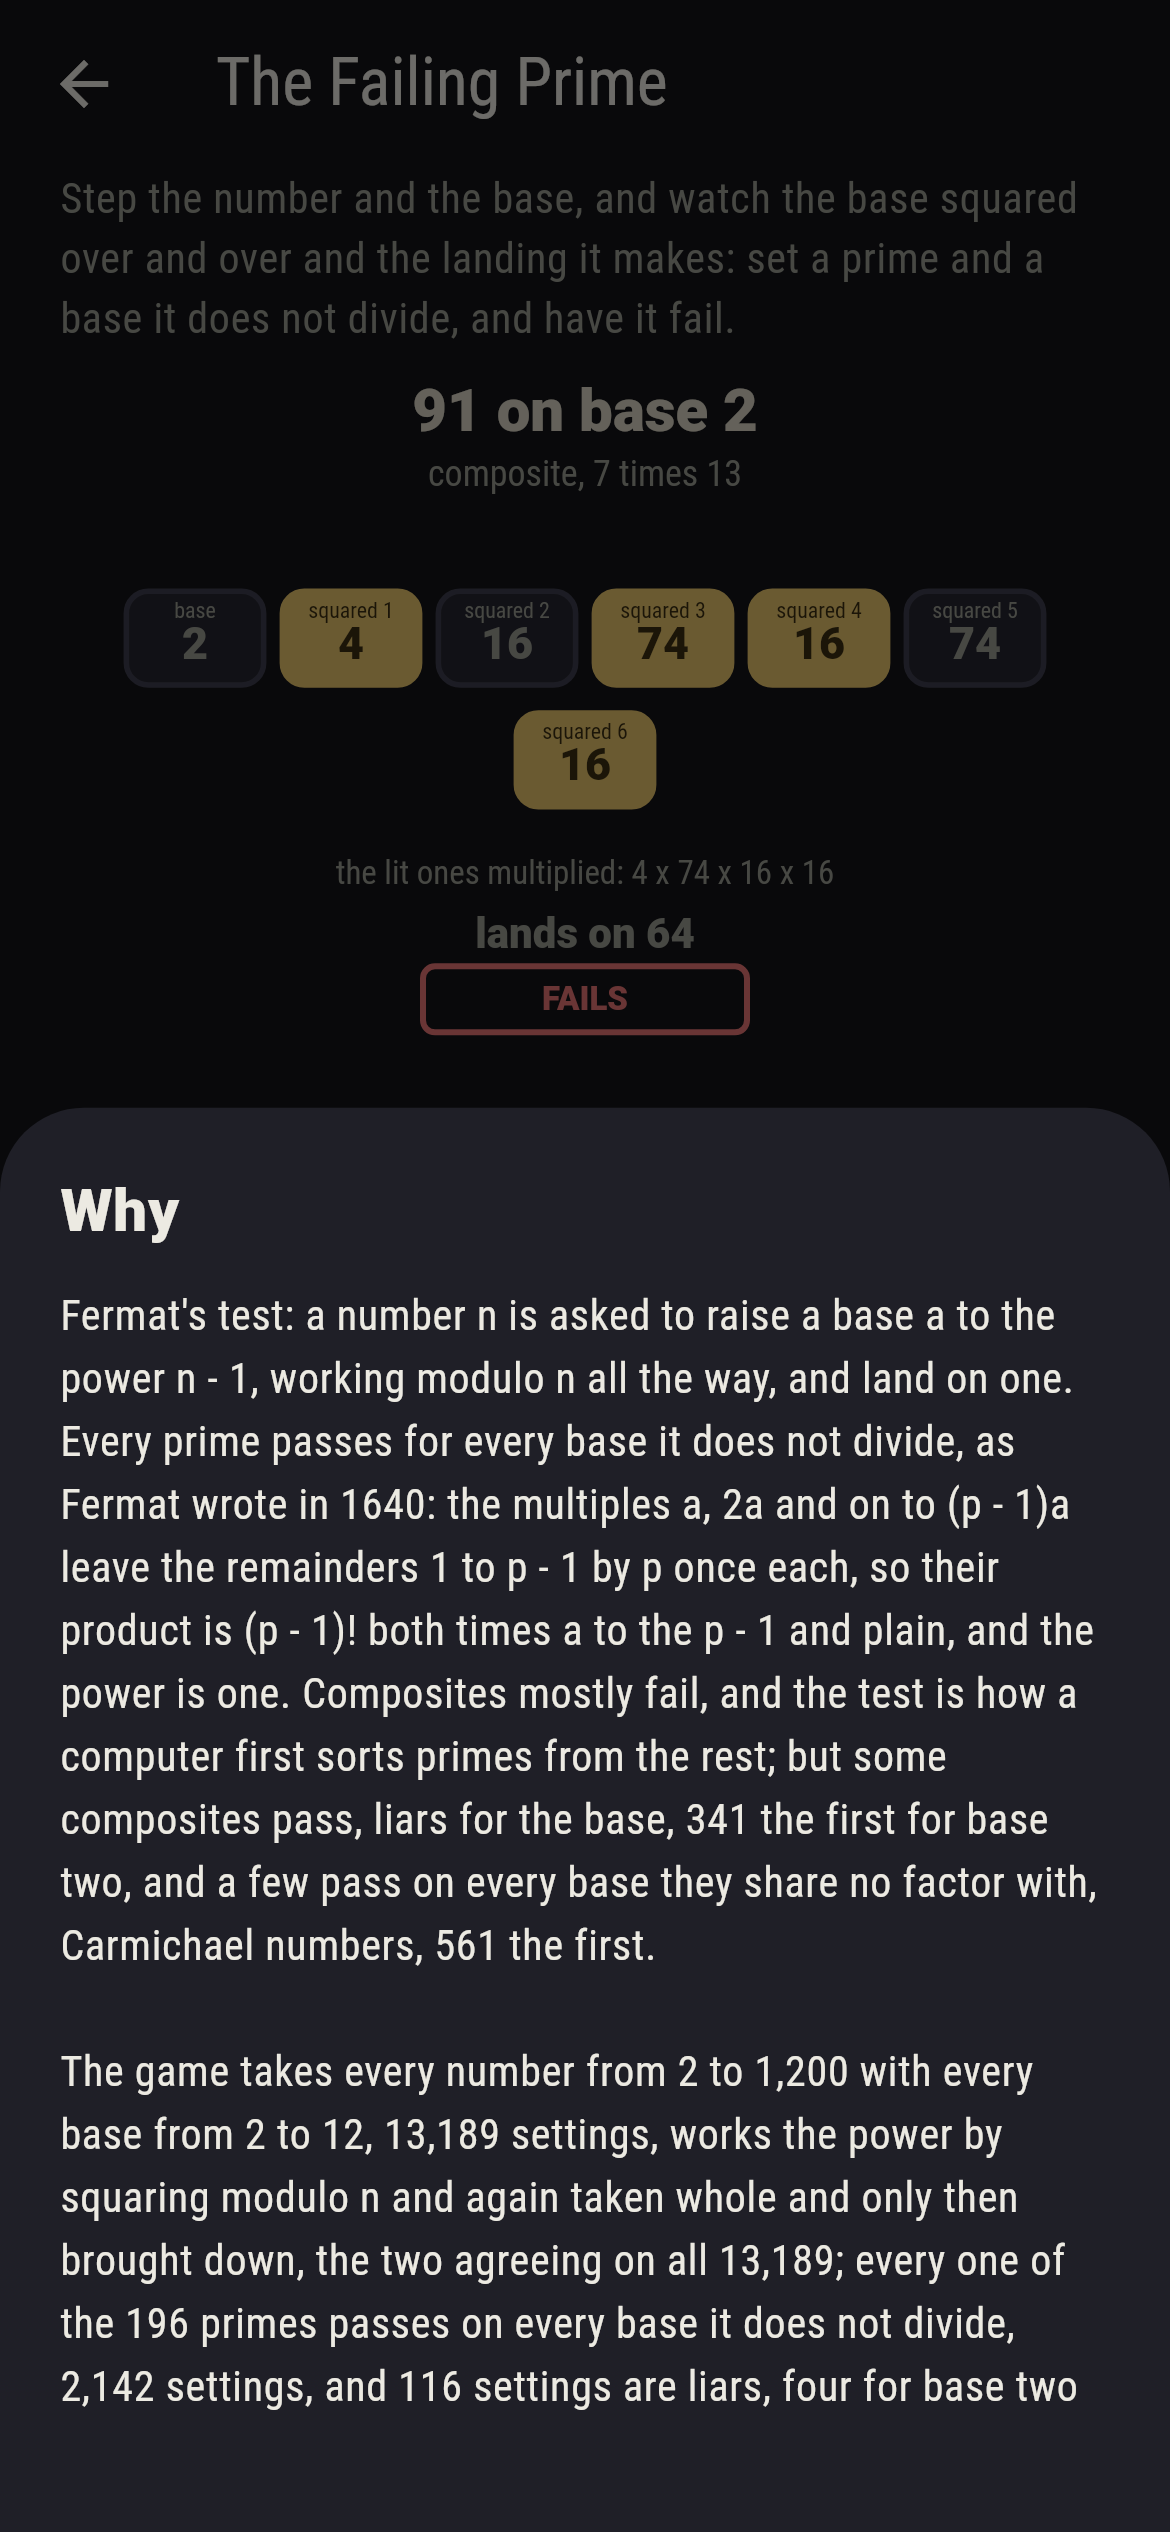
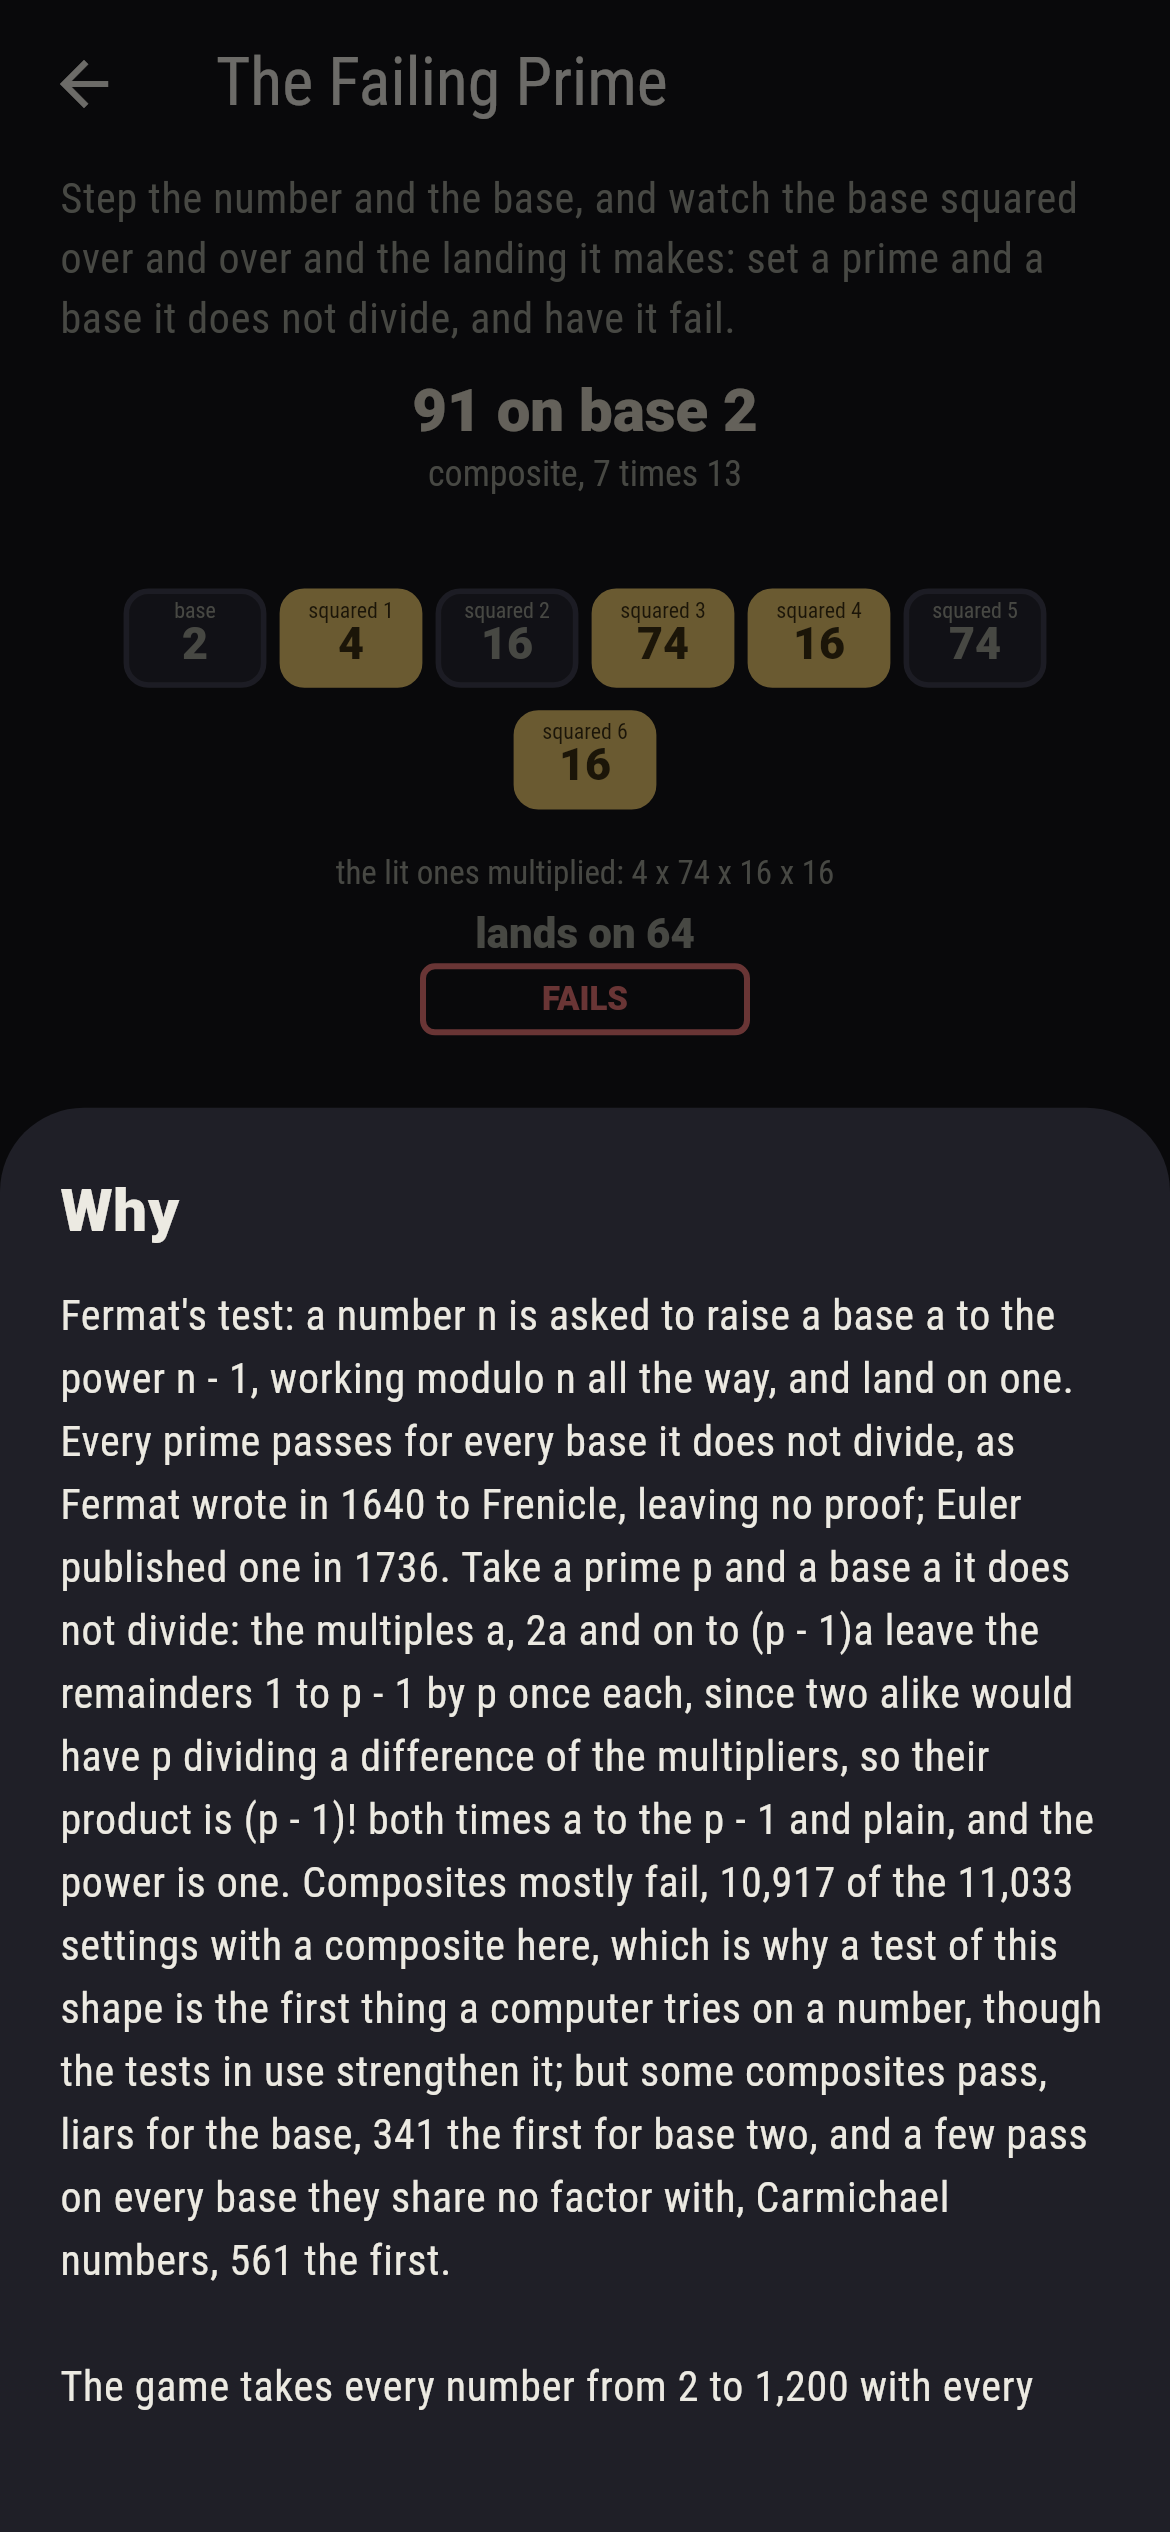
Feintley: the attributions put right and the digits counted

Changed region(s): [[0.0615, 0.5928, 0.9538, 0.9672]]

diff --git a/Feintley/tool/check_tests.dart b/Feintley/tool/check_tests.dart
@@ -21,12 +21,14 @@ void main() {
 
   final sieve = Rules.sieve;
   var settings = 0, primes = 0, primePasses = 0, primeFails = 0, liars = 0, carmichaels = 0;
+  var composites = 0, compositeSettings = 0, compositeFails = 0;
   final liarsByBase = <int, List<int>>{};
   final carmichaelNumbers = <int>[];
   for (var n = Rules.least; n <= Rules.most; n++) {
     check(Rules.isPrime(n) == sieve[n], 'the trial and the sieve differ on $n');
     final composite = !Rules.isPrime(n);
     if (!composite) primes++;
+    if (composite) composites++;
     if (composite) {
       final f = Rules.factor(n)!;
       check(n % f == 0 && f > 1 && f * f <= n, 'the factor of $n is $f');
@@ -47,9 +49,14 @@ void main() {
           check(!passes, 'the prime $n passes on the base $a it divides');
           primeFails++;
         }
-      } else if (passes) {
-        liars++;
-        (liarsByBase[a] ??= []).add(n);
+      } else {
+        compositeSettings++;
+        if (passes) {
+          liars++;
+          (liarsByBase[a] ??= []).add(n);
+        } else {
+          compositeFails++;
+        }
       }
     }
     if (Rules.carmichael(n)) {
@@ -62,6 +69,7 @@ void main() {
   }
   check(settings == 13189 && primes == 196 && primePasses == 2142 && primeFails == 14, 'settings $settings, primes $primes, passes $primePasses, fails $primeFails');
   check(liars == 116, 'liars $liars');
+  check(composites == 1003 && compositeSettings == 11033 && compositeFails == 10917 && compositeFails + liars == compositeSettings, 'composites $composites, their settings $compositeSettings, failing $compositeFails');
   check(liarsByBase[2]!.join(',') == '341,561,645,1105', 'the liars of base two: ${liarsByBase[2]}');
   check(liarsByBase[3]!.join(',') == '91,121,286,671,703,949,1105', 'the liars of base three: ${liarsByBase[3]}');
   check(carmichaels == 2 && carmichaelNumbers.join(',') == '561,1105', 'the Carmichael numbers $carmichaelNumbers');
@@ -107,7 +115,7 @@ void main() {
     exit(1);
   }
 
-  stdout.writeln('every number from 2 to ${commas(Rules.most)} tried on every base from 2 to 12, ${commas(settings)} settings, and the power worked by squaring modulo the number and again taken whole before being brought down, the two agreeing on all ${commas(settings)}, the primes found by trial division and again by the sieve, agreeing on all ${commas(Rules.most - 1)}: every one of the $primes primes passes on every base it does not divide, ${commas(primePasses)} settings, and fails on the $primeFails settings where the base is a multiple of it; $liars settings are liars, composites that pass, four of them on base two, 341, 561, 645 and 1,105, and seven on base three, 91, 121, 286, 671, 703, 949 and 1,105, base two the honestest of the eleven and base eight the loosest with 22; 561, which is 3 times 11 times 17, and 1,105, which is 5 times 13 times 17, pass on every base they share no factor with, the two Carmichael numbers below ${commas(Rules.most)}; and 91 fails on base two while 341 fails on base three, so a second base catches most liars but not all\n');
+  stdout.writeln('every number from 2 to ${commas(Rules.most)} tried on every base from 2 to 12, ${commas(settings)} settings, and the power worked by squaring modulo the number and again taken whole before being brought down, the two agreeing on all ${commas(settings)}, the primes found by trial division and again by the sieve, agreeing on all ${commas(Rules.most - 1)}: every one of the $primes primes passes on every base it does not divide, ${commas(primePasses)} settings, and fails on the $primeFails settings where the base is a multiple of it; of the ${commas(compositeSettings)} settings with a composite, ${commas(compositeFails)} fail and $liars pass, the liars, four of them on base two, 341, 561, 645 and 1,105, and seven on base three, 91, 121, 286, 671, 703, 949 and 1,105, base two the honestest of the eleven and base eight the loosest with 22; 561, which is 3 times 11 times 17, and 1,105, which is 5 times 13 times 17, pass on every base they share no factor with, the two Carmichael numbers below ${commas(Rules.most)}; and 91 fails on base two while 341 fails on base three, so a second base catches most liars but not all\n');
   final width = Levels.all.map((l) => l.name.length).reduce((a, b) => a > b ? a : b);
   for (var i = 0; i < Levels.count; i++) {
     final level = Levels.at(i);

diff --git a/Feintley/lib/feint/play.dart b/Feintley/lib/feint/play.dart
@@ -103,14 +103,18 @@ String whyWords(Play play) {
   final number = Levels.all.indexOf(level) + 1;
   return 'Fermat\'s test: a number n is asked to raise a base a to the power '
       'n - 1, working modulo n all the way, and land on one. Every prime '
-      'passes for every base it does not divide, as Fermat wrote in 1640: '
-      'the multiples a, 2a and on to (p - 1)a leave the remainders 1 to p - 1 '
-      'by p once each, so their product is (p - 1)! both times a to the p - 1 '
-      'and plain, and the power is one. Composites mostly fail, and the test '
-      'is how a computer first sorts primes from the rest; but some '
-      'composites pass, liars for the base, 341 the first for base two, and '
-      'a few pass on every base they share no factor with, Carmichael '
-      'numbers, 561 the first.\n\n'
+      'passes for every base it does not divide, as Fermat wrote in 1640 to '
+      'Frenicle, leaving no proof; Euler published one in 1736. Take a prime '
+      'p and a base a it does not divide: the multiples a, 2a and on to '
+      '(p - 1)a leave the remainders 1 to p - 1 by p once each, since two '
+      'alike would have p dividing a difference of the multipliers, so their '
+      'product is (p - 1)! both times a to the p - 1 and plain, and the '
+      'power is one. Composites mostly fail, 10,917 of the 11,033 settings '
+      'with a composite here, which is why a test of this shape is the first '
+      'thing a computer tries on a number, though the tests in use strengthen '
+      'it; but some composites pass, liars for the base, 341 the first for '
+      'base two, and a few pass on every base they share no factor with, '
+      'Carmichael numbers, 561 the first.\n\n'
       'The game takes every number from 2 to 1,200 with every base from 2 to '
       '12, 13,189 settings, works the power by squaring modulo n and again '
       'taken whole and only then brought down, the two agreeing on all '

diff --git a/Feintley/lib/feint/levels.dart b/Feintley/lib/feint/levels.dart
@@ -41,15 +41,17 @@ class Levels {
       note: 'Two composites to 1,200 pass on every base they share no factor '
           'with: 561, which is 3 times 11 times 17, on the bases 2, 4, 5, 7, '
           '8 and 10, and 1,105, 5 times 13 times 17, on nine bases; '
-          'Carmichael named them in 1910, and there are infinitely many, as '
-          'was proved in 1994.',
+          'Korselt gave the rule for them in 1899, Carmichael found the '
+          'first in 1910 and they carry his name, and there are infinitely '
+          'many, as was proved in 1994.',
     ),
     Level(
       name: 'The Failing Prime',
       kind: 'failing',
       ways: 0,
-      note: 'Hopeless, and the tile says so. Take a prime p and a base a it '
-          'does not divide: the numbers a, 2a, 3a and on to (p - 1)a leave '
+      note: 'Hopeless, and the tile says so. Fermat wrote it to Frenicle in '
+          '1640 and left no proof; Euler published one in 1736. Take a prime '
+          'p and a base a it does not divide: the numbers a, 2a, 3a and on to (p - 1)a leave '
           'the remainders 1 to p - 1 by p once each, since two of them '
           'alike would make p divide a difference ka - ja with both k - j '
           'and a too small or too coprime to carry it; so their product is '

diff --git a/Feintley/README.md b/Feintley/README.md
@@ -4,15 +4,20 @@
 
 Fermat's test. A number n is asked to raise a base a to the power
 n - 1, working modulo n all the way, and land on one. Every prime
-passes for every base it does not divide, as Fermat wrote in 1640:
-the multiples a, 2a and on to (p - 1)a leave the remainders 1 to
-p - 1 by p once each, so their product is the product of those
-remainders both times the base raised to p - 1 and plain, and the
-power is one. Composites mostly fail, which is how a computer first
-sorts primes from the rest. Some composites pass anyway. They are
-liars for that base, 341 the first for base two, and a few pass on
-every base they share no factor with. Carmichael named those in
-1910. Step the number and the base on their dials and watch the base
+passes for every base it does not divide. Fermat wrote that to
+Frenicle in 1640 and left no proof; Euler published one in 1736.
+Take a prime p and a base a it does not divide: the multiples a, 2a
+and on to (p - 1)a leave the remainders 1 to p - 1 by p once each,
+since two alike would have p dividing a difference of the
+multipliers, so their product is the product of those remainders
+both times the base raised to p - 1 and plain, and the power is one.
+Composites mostly fail, 10,917 of the 11,033 settings with a
+composite here, which is why a test of this shape is the first thing
+a computer tries on a number, though the tests in use strengthen it.
+Some composites pass anyway. They are liars for that base, 341 the
+first for base two, and a few pass on every base they share no
+factor with. Korselt gave the rule for those in 1899, Carmichael
+found the first in 1910, and they carry his name. Step the number and the base on their dials and watch the base
 squared over and over, the squares the power takes lit in gold. The
 game takes every number from 2 to 1,200 with every base from 2 to
 12, 13,189 settings, works the power by squaring and again taken
@@ -58,8 +63,8 @@ everything at least twice:
   landing on the sham is that ladder's. The primes are found by
   trial division.
 * **The whole power** takes no remainder until the end: it raises
-  the base to n - 1 as one big number, up to hundreds of digits, and
-  brings it down modulo n only then. It agrees with the squaring on
+  the base to n - 1 as one big number, up to the 1,294 digits of
+  twelve raised to 1,199, and brings it down modulo n only then. It agrees with the squaring on
   all 13,189 settings, and the sieve of Eratosthenes agrees with the
   trial division on every number to 1,200.
 
@@ -72,7 +77,7 @@ What `dart run tool/check_tests.dart` printed for the build this
 README shipped with, word for word:
 
 ```
-every number from 2 to 1,200 tried on every base from 2 to 12, 13,189 settings, and the power worked by squaring modulo the number and again taken whole before being brought down, the two agreeing on all 13,189, the primes found by trial division and again by the sieve, agreeing on all 1,199: every one of the 196 primes passes on every base it does not divide, 2,142 settings, and fails on the 14 settings where the base is a multiple of it; 116 settings are liars, composites that pass, four of them on base two, 341, 561, 645 and 1,105, and seven on base three, 91, 121, 286, 671, 703, 949 and 1,105, base two the honestest of the eleven and base eight the loosest with 22; 561, which is 3 times 11 times 17, and 1,105, which is 5 times 13 times 17, pass on every base they share no factor with, the two Carmichael numbers below 1,200; and 91 fails on base two while 341 fails on base three, so a second base catches most liars but not all
+every number from 2 to 1,200 tried on every base from 2 to 12, 13,189 settings, and the power worked by squaring modulo the number and again taken whole before being brought down, the two agreeing on all 13,189, the primes found by trial division and again by the sieve, agreeing on all 1,199: every one of the 196 primes passes on every base it does not divide, 2,142 settings, and fails on the 14 settings where the base is a multiple of it; of the 11,033 settings with a composite, 10,917 fail and 116 pass, the liars, four of them on base two, 341, 561, 645 and 1,105, and seven on base three, 91, 121, 286, 671, 703, 949 and 1,105, base two the honestest of the eleven and base eight the loosest with 22; 561, which is 3 times 11 times 17, and 1,105, which is 5 times 13 times 17, pass on every base they share no factor with, the two Carmichael numbers below 1,200; and 91 fails on base two while 341 fails on base three, so a second base catches most liars but not all
 
  1 The Honest Prime  set a prime above a thousand and a base, and have it pass: 308 of the 13,189 settings land it
  2 The Liar of Two   set a composite that passes on base two: 4 of the 13,189 settings land it
